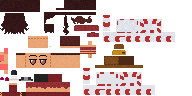
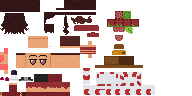
finished syprus plushie

Changed region(s): [[0.5312, 0.0938, 0.9375, 0.4375]]

diff --git a/changelog.md b/changelog.md
@@ -1,2 +1,1 @@
-- reworked onesie again :3c
-- copied mithril staff into pillow
+- added syprus plushie
